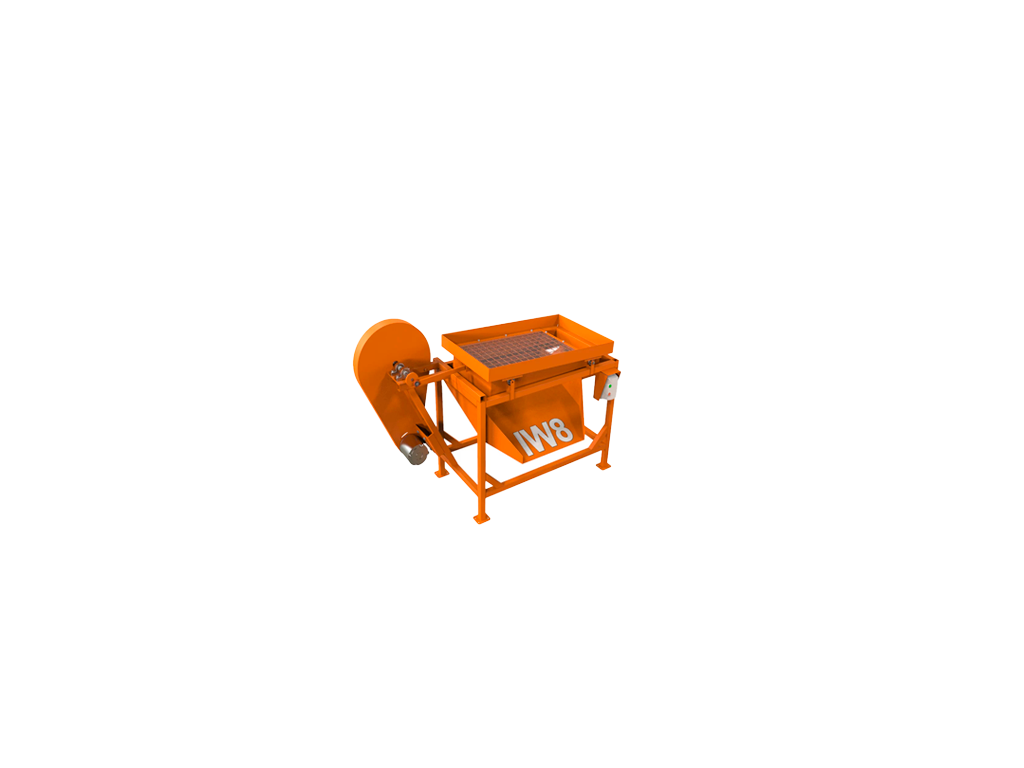
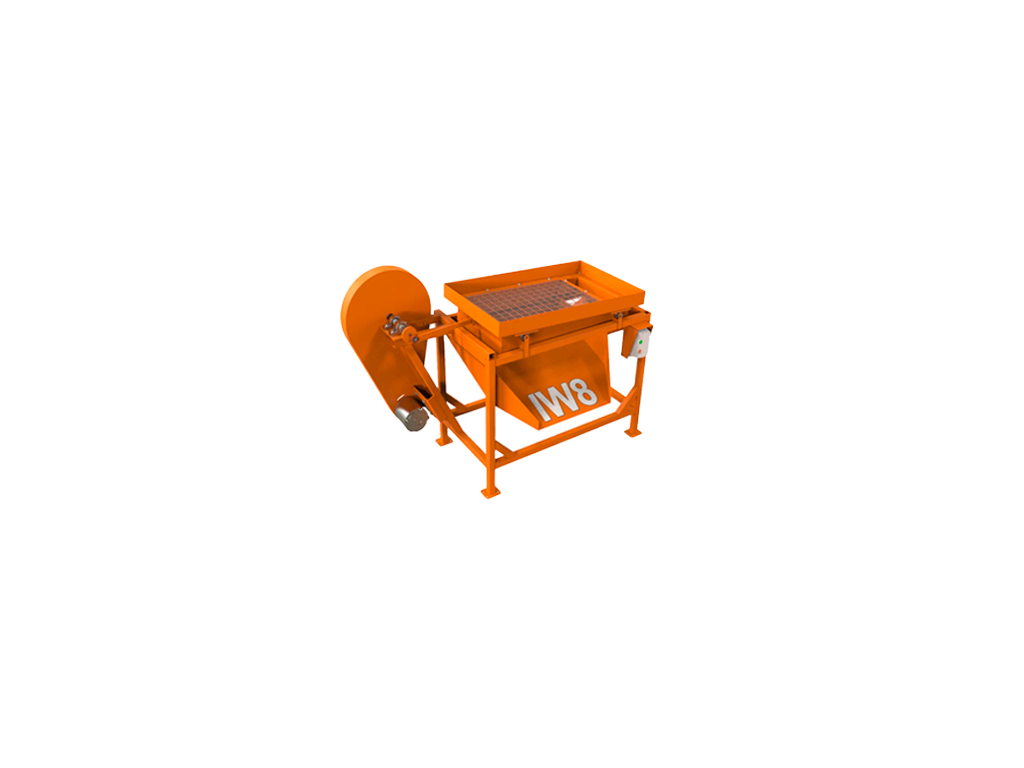
PE

Changed region(s): [[0.3125, 0.3438, 0.6562, 0.6875]]

diff --git a/script.js b/script.js
@@ -189,7 +189,7 @@ document.addEventListener('DOMContentLoaded', function() {
             id: 18,
             name: "Peneira Eletrica",
             description: "Peneiramento de materiais para construção.",
-            image: "assets/images/escavadeira.jpg",
+            image: "/imgs/peneira eletrica.png",
             specs: { Mensal : "R$450/unit" , 
                 Quantidaade:"02 unidades disponiveis"
                 
